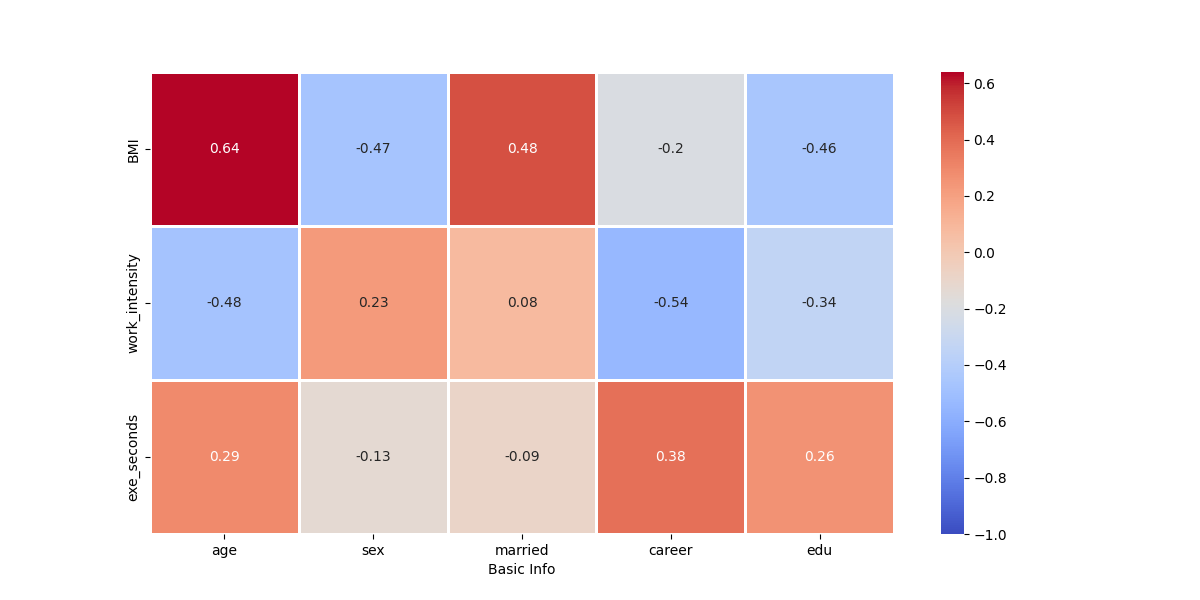
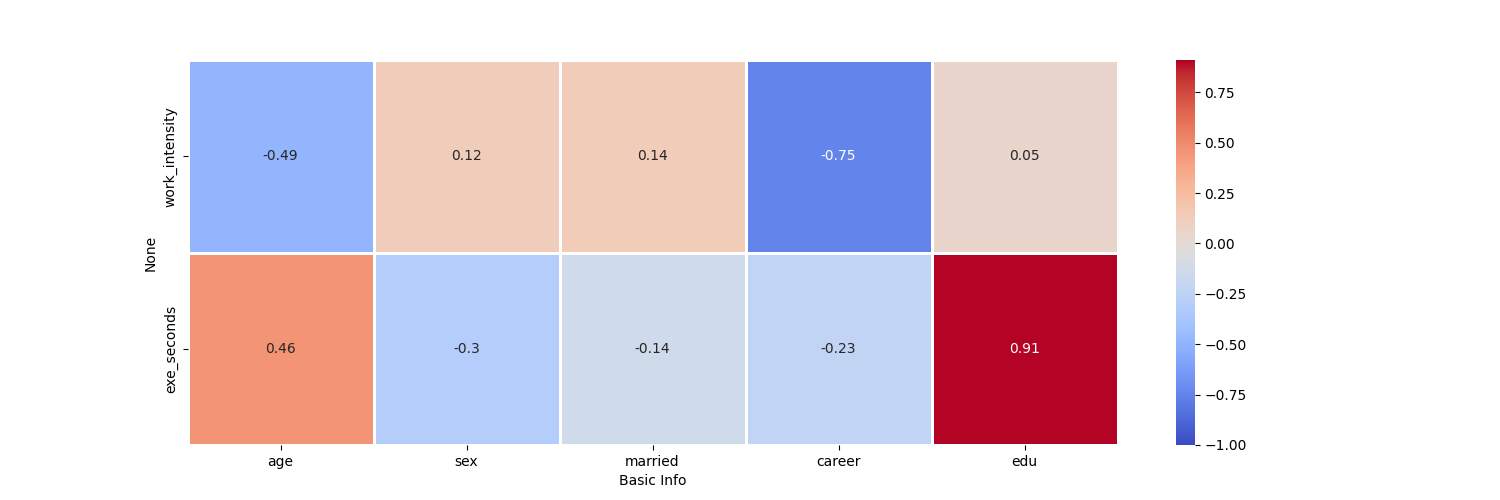
final update

diff --git a/main.py b/main.py
@@ -18,18 +18,30 @@ def problem_1():
     ratio(data.evaluate_ratio, save_path="pics/problem1/evaluate_ratio.png")
     # histogram pics
     df = pd.read_csv("docs/processed_data.csv")
-    histogram(df, "qty_f_veg", [x for x in range(0, 30, 2)], "pics/problem1/fresh_vegtables.png", standard=[6, 30])
-    histogram(df, "num_day_foods", [x for x in range(0, 20, 2)], "pics/problem1/num_day_foods.png", standard=[12, 20])
-    histogram(df, "qty_f_fruits", [x for x in np.arange(0, 8, 0.5)], "pics/problem1/quantity_fresh_fruits.png", standard=[4, 7])
-    histogram(df, "qty_d_prods", [x for x in np.arange(0, 8, 0.5)], "pics/problem1/dairy_products.png", standard=[4, 10])
-    histogram(df, "qty_cereal", [x for x in np.arange(0, 5, 0.5)], "pics/problem1/quantity_cereal.png", standard=[1, 3])
-    histogram(df, "qty_lpfem", [x for x in range(0, 15, 1)], "pics/problem1/quantity_lpfem.png", standard=[2.4, 4])
-    histogram(df, "qty_oil", [x for x in range(0, 150, 10)], "pics/problem1/quantity_oil.png", standard=[25, 30])
-    histogram(df, "qty_beans", [x for x in np.arange(0, 1.2, 0.05)], "pics/problem1/quantity_beans.png", standard=[0.6, 1])
-    histogram(df, "qty_salt", [x for x in range(0, 30, 2)], "pics/problem1/quantity_salt.png", standard=[0, 5])
-    histogram(df, "qty_wine", [x for x in np.arange(0, 50, 5)], "pics/problem1/quantity_wine.png", standard=[0, 15])
-    histogram(df, "qty_beverage", [x for x in np.arange(0, 1.2, 0.05)], "pics/problem1/quantity_beverage.png", standard=[0, 1])
-    histogram(df, "ratio_at_home", [x for x in np.arange(0, 1, 0.1)], "pics/problem1/ratio_at_home.png", standard=[0.5, 1])
+    histogram(df, "qty_f_veg", [x for x in range(0, 30, 2)], 
+              "pics/problem1/fresh_vegtables.png", standard=[6, 30])
+    histogram(df, "num_day_foods", [x for x in range(0, 20, 2)], 
+              "pics/problem1/num_day_foods.png", standard=[12, 20])
+    histogram(df, "qty_f_fruits", [x for x in np.arange(0, 8, 0.5)], 
+              "pics/problem1/quantity_fresh_fruits.png", standard=[4, 7])
+    histogram(df, "qty_d_prods", [x for x in np.arange(0, 8, 0.5)], 
+              "pics/problem1/dairy_products.png", standard=[4, 10])
+    histogram(df, "qty_cereal", [x for x in np.arange(0, 5, 0.5)], 
+              "pics/problem1/quantity_cereal.png", standard=[1, 3])
+    histogram(df, "qty_lpfem", [x for x in range(0, 15, 1)], 
+              "pics/problem1/quantity_lpfem.png", standard=[2.4, 4])
+    histogram(df, "qty_oil", [x for x in range(0, 150, 10)], 
+              "pics/problem1/quantity_oil.png", standard=[25, 30])
+    histogram(df, "qty_beans", [x for x in np.arange(0, 1.2, 0.05)], 
+              "pics/problem1/quantity_beans.png", standard=[0.6, 1])
+    histogram(df, "qty_salt", [x for x in range(0, 30, 2)], 
+              "pics/problem1/quantity_salt.png", standard=[0, 5])
+    histogram(df, "qty_wine", [x for x in np.arange(0, 50, 5)], 
+              "pics/problem1/quantity_wine.png", standard=[0, 15])
+    histogram(df, "qty_beverage", [x for x in np.arange(0, 1.2, 0.05)], 
+              "pics/problem1/quantity_beverage.png", standard=[0, 1])
+    histogram(df, "ratio_at_home", [x for x in np.arange(0, 1, 0.1)], 
+              "pics/problem1/ratio_at_home.png", standard=[0.5, 1])
 
 # PROBLEM-2-CCA
 def problem_2():
@@ -44,10 +56,11 @@ def problem_2():
     Y = data.iloc[:, np.r_[16:21]]
     corr(data.iloc[:, np.r_[0:13, 16:21]], "pics/problem2/corr_analysis_1.png", 
          symmetry=False, x=np.r_[0:13], y=np.r_[13:18])
+    # corr(data.iloc[:, np.r_[14:16, 16:21]], "pics/problem2/corr_analysis_2.png",figsize=(12, 6)) 
     corr(data.iloc[:, np.r_[14:16, 16:21]], "pics/problem2/corr_analysis_2.png", 
          figsize=(12, 6), symmetry=False, x=np.r_[0:2], y=np.r_[2:7])
     cca(X1, Y, "pics/problem2/CCA_1.png")
-    cca(X2, Y, "pics/problem2/CCA_2.png", figsize=(12,6))
+    cca(Y, X2, "pics/problem2/CCA_2.png", figsize=(15, 5))
 
 
 # PROBLEM-3-XGBOOST-SHAP
@@ -56,15 +69,15 @@ def problem_3():
     df = pd.read_csv("docs/processed_data.csv")
     df = df.fillna(0)
     X = df.iloc[:,np.r_[1, 16:28, 29:31]]
-    Y = df.iloc[:,np.r_[40:45]]
+    Y = df.iloc[:,np.r_[40:45, 46]]
     # cca
-    cca(Y, X, "pics/problem3/CCA_3.png", figsize=(25, 12))
+    cca(X, Y,"pics/problem3/CCA_3.png", figsize=(30, 10))
     # corr
-    corr(Y, "pics/problem3/coor_diseases.png", figsize=(12, 12))
-    # # xgboost-shap
-    for i in range(Y.shape[1]):
-        y = Y.iloc[:,np.r_[i]]
-        xgboost_shap(X, y, "pics/problem3/"+y.columns.item())
+    # corr(Y, "pics/problem3/coor_diseases.png", figsize=(12, 12))
+    # # # xgboost-shap
+    # for i in range(Y.shape[1]):
+    #     y = Y.iloc[:,np.r_[i]]
+    #     xgboost_shap(X, y, "pics/problem3/"+y.columns.item())
         
 
 def problem_4():
@@ -73,12 +86,11 @@ def problem_4():
     df = df.fillna(0)
     data = df.iloc[:,-2:]
     chi_square_test(data)
-    
     # read data
     df = pd.read_csv("docs/processed_data_young.csv")
     df = df.fillna(0)
     X = df.iloc[:,np.r_[1, 16:28, 29:31]]
-    Y = df.iloc[:,np.r_[40:45]]
+    Y = df.iloc[:,np.r_[40:45, 46]]
     # cca
     cca(X, Y, "pics/problem4/young/CCA_young.png", figsize=(25, 12))
     # corr
@@ -92,7 +104,7 @@ def problem_4():
     df = pd.read_csv("docs/processed_data_mid.csv")
     df = df.fillna(0)
     X = df.iloc[:,np.r_[1, 16:28, 29:31]]
-    Y = df.iloc[:,np.r_[40:45]]
+    Y = df.iloc[:,np.r_[40:45, 46]]
     # cca
     cca(X, Y, "pics/problem4/mid/CCA_mid.png", figsize=(25, 12))
     # corr
@@ -106,7 +118,7 @@ def problem_4():
     df = pd.read_csv("docs/processed_data_old.csv")
     df = df.fillna(0)
     X = df.iloc[:,np.r_[1, 16:28, 29:31]]
-    Y = df.iloc[:,np.r_[40:45]]
+    Y = df.iloc[:,np.r_[40:46, 46]]
     # cca
     cca(X, Y, "pics/problem4/old/CCA_old.png", figsize=(25, 12))
     # corr
@@ -118,8 +130,8 @@ def problem_4():
 
 
 if __name__ == '__main__':
-    pre_work()
-    problem_1()
-    problem_2()
+    # pre_work()
+    # problem_1()
+    # problem_2()
     problem_3()
-    problem_4()
+    # problem_4()

diff --git a/models.py b/models.py
@@ -101,6 +101,7 @@ def xgboost_shap(X: pd.DataFrame, Y:pd.DataFrame, save_path):
 def chi_square_test(data):
     c_table = pd.crosstab(data["age_group"],data["disease"],margins=True)
     print(c_table)
-    f_obs = np.array([c_table.iloc[0][0:3].values,c_table.iloc[1][0:3].values,c_table.iloc[2][0:3].values])
+    f_obs = np.array([c_table.iloc[0][0:3].values, \
+        c_table.iloc[1][0:3].values,c_table.iloc[2][0:3].values])
     print(f_obs)
     print(stats.chi2_contingency(f_obs))

diff --git a/README.md b/README.md
@@ -1,2 +1,19 @@
 # SJTU-2023C
 上海交通大学数学建模校内赛C题
+
+运行环境
+
+    python >= 3.8
+    numpy
+    pandas
+    sklearn
+    matplotlib
+    seaborn
+    shap
+    xgboost
+    scipy
+
+团队
+    麻家乐
+    黄天浩
+    刘  灿
